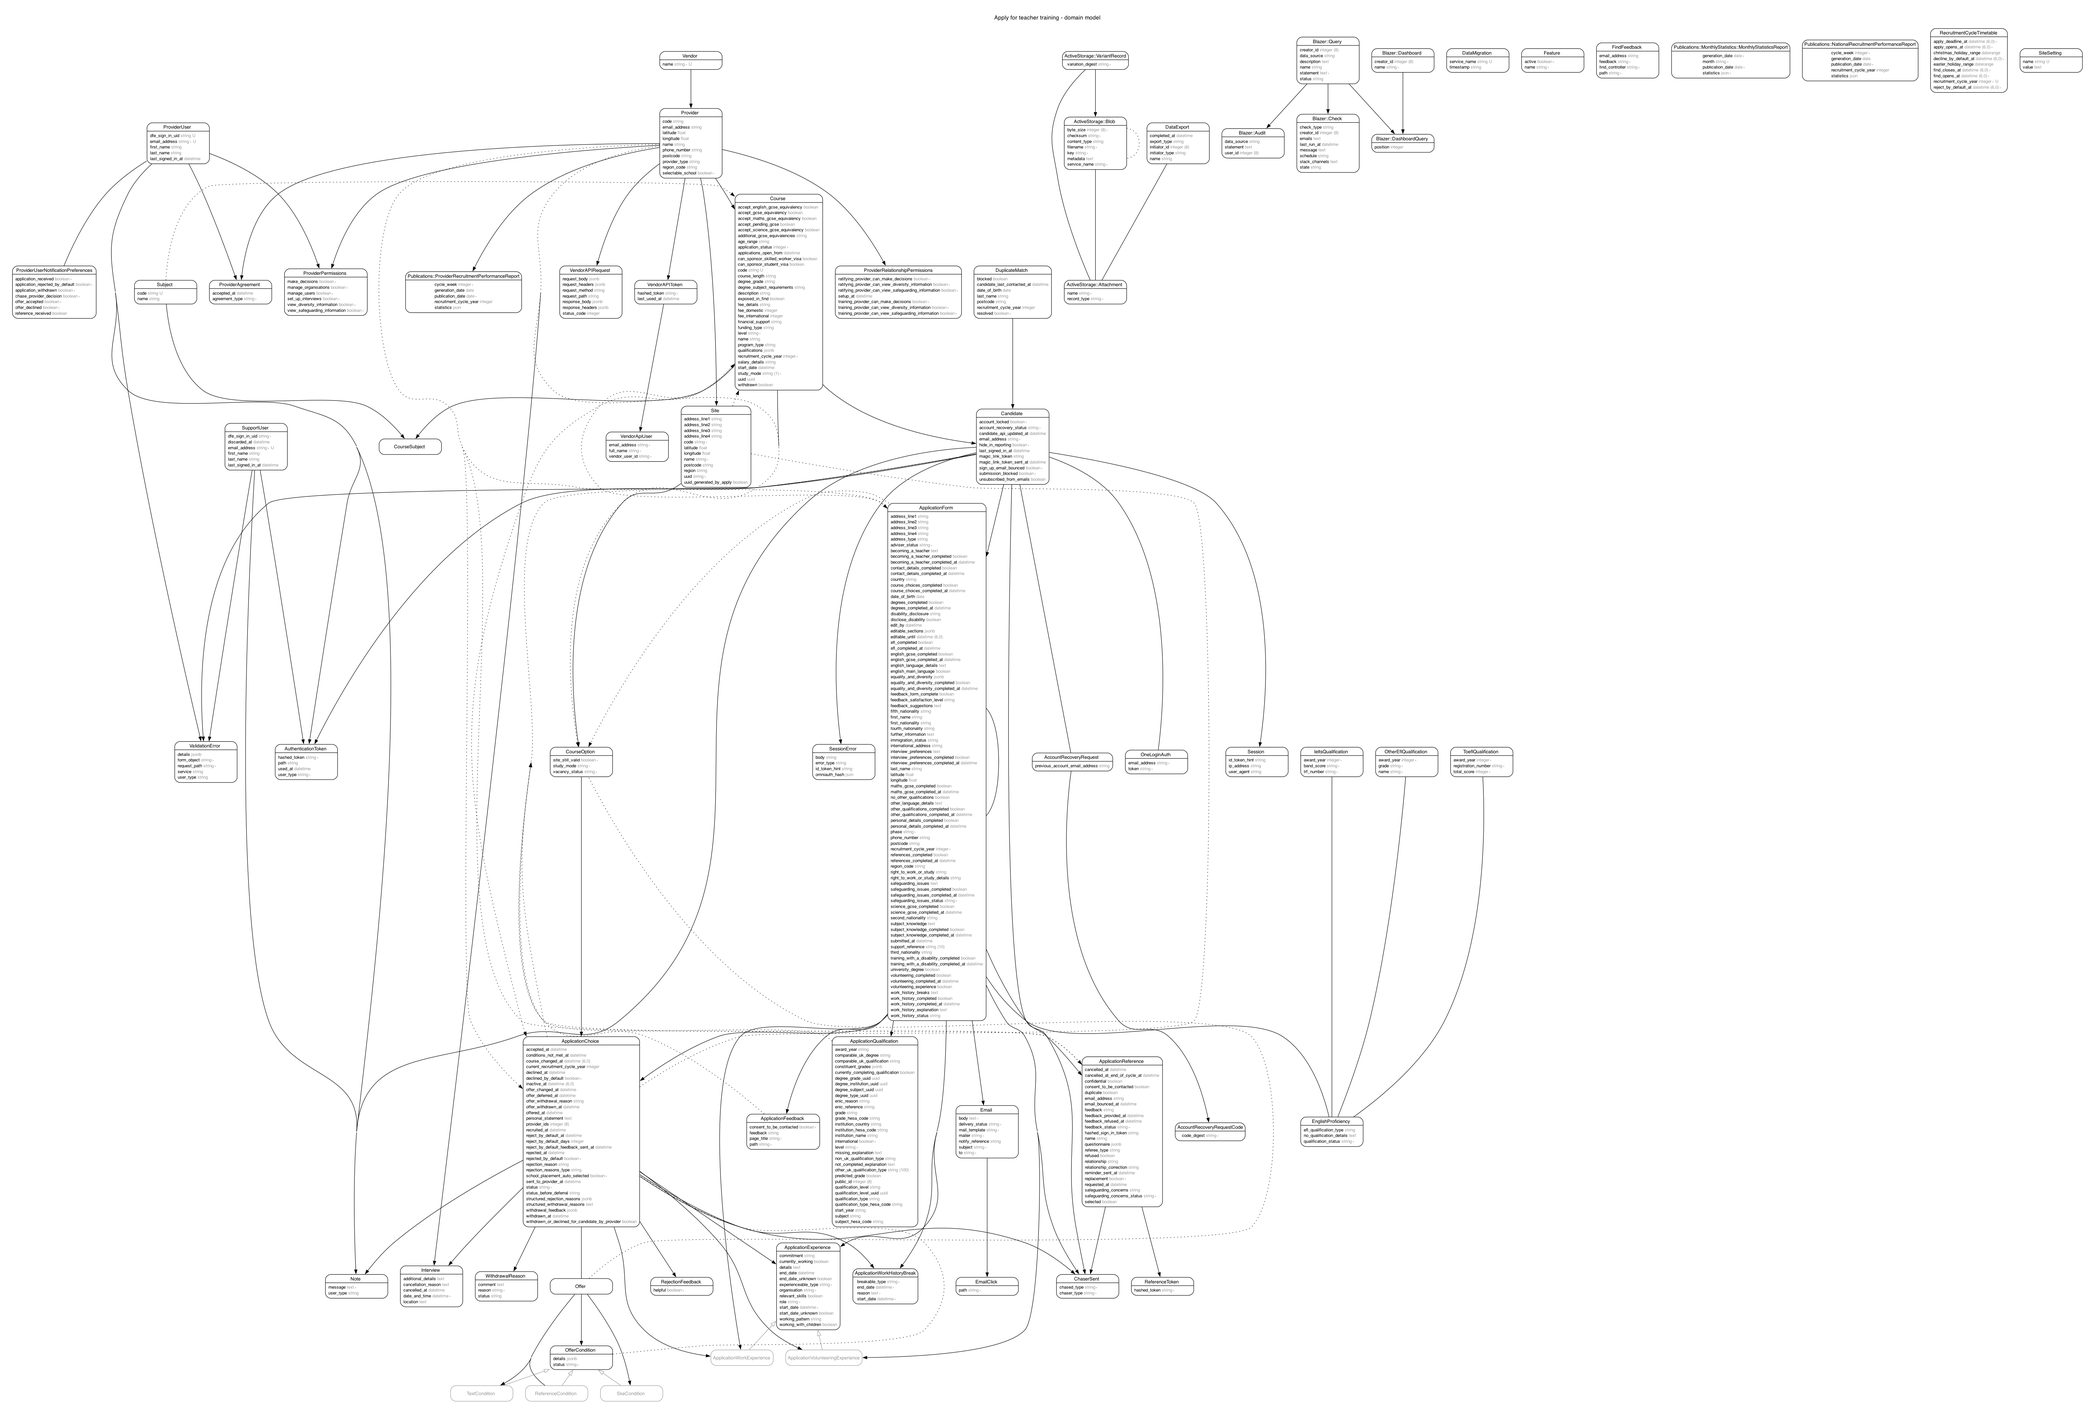
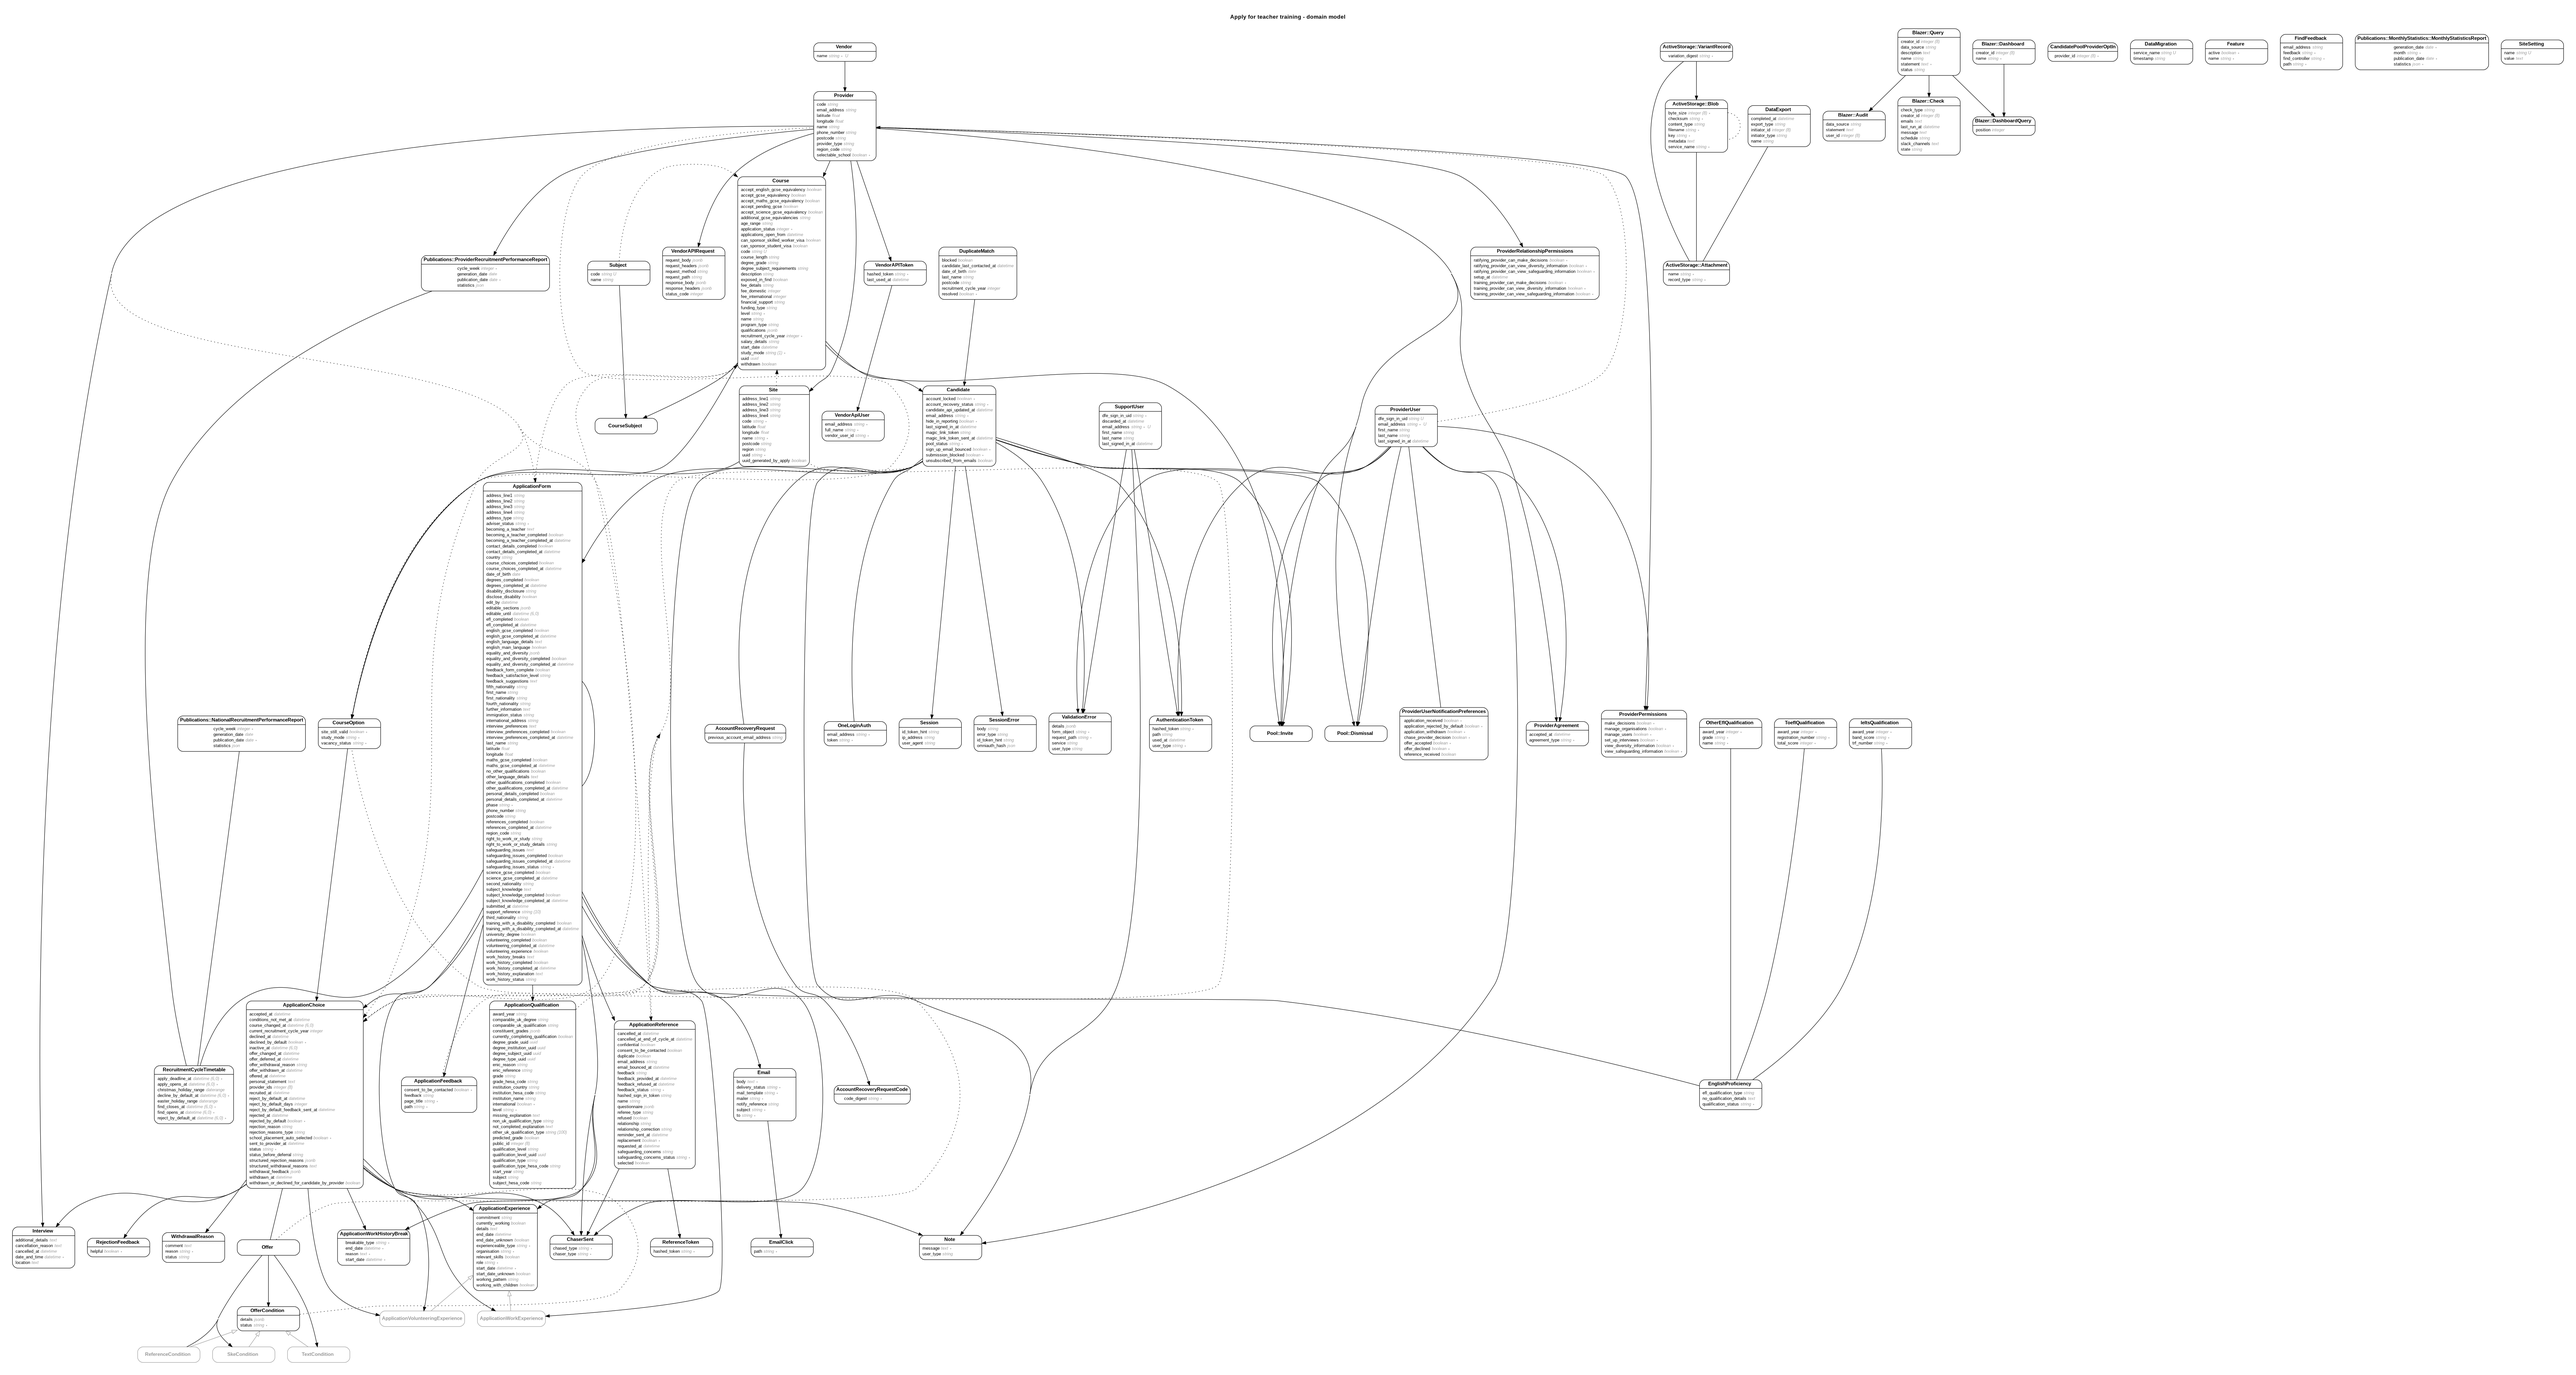
Candidate pool tables
To have a working candidate pool for providers we need to allow
providers to invite candidates to apply to courses.

We also need candidates to opt in. And a temporary list of providers
that opt in as well.

This commit adds all the migrations that we need for this feature

diff --git a/db/schema.rb b/db/schema.rb
@@ -10,7 +10,7 @@
 #
 # It's strongly recommended that you check this file into your version control system.
 
-ActiveRecord::Schema[8.0].define(version: 2025_02_03_095339) do
+ActiveRecord::Schema[8.0].define(version: 2025_02_17_144509) do
   create_sequence "qualifications_public_id_seq", start: 120000
 
   # These are extensions that must be enabled in order to support this database
@@ -384,6 +384,13 @@ ActiveRecord::Schema[8.0].define(version: 2025_02_03_095339) do
     t.index ["creator_id"], name: "index_blazer_queries_on_creator_id"
   end
 
+  create_table "candidate_pool_provider_opt_ins", force: :cascade do |t|
+    t.bigint "provider_id", null: false
+    t.datetime "created_at", null: false
+    t.datetime "updated_at", null: false
+    t.index ["provider_id"], name: "index_candidate_pool_provider_opt_ins_on_provider_id"
+  end
+
   create_table "candidates", force: :cascade do |t|
     t.string "email_address", null: false
     t.datetime "created_at", precision: nil, null: false
@@ -400,6 +407,7 @@ ActiveRecord::Schema[8.0].define(version: 2025_02_03_095339) do
     t.boolean "submission_blocked", default: false, null: false
     t.boolean "account_locked", default: false, null: false
     t.string "account_recovery_status", default: "not_started", null: false
+    t.string "pool_status", default: "not_set", null: false
     t.index ["account_locked"], name: "index_candidates_on_account_locked"
     t.index ["email_address"], name: "index_candidates_on_email_address", unique: true
     t.index ["fraud_match_id"], name: "index_candidates_on_fraud_match_id"
@@ -653,6 +661,30 @@ ActiveRecord::Schema[8.0].define(version: 2025_02_03_095339) do
     t.integer "award_year", null: false
     t.datetime "created_at", null: false
     t.datetime "updated_at", null: false
+  end
+
+  create_table "pool_dismissals", force: :cascade do |t|
+    t.bigint "candidate_id", null: false
+    t.bigint "provider_id", null: false
+    t.bigint "dismissed_by_id", null: false
+    t.datetime "created_at", null: false
+    t.datetime "updated_at", null: false
+    t.index ["candidate_id"], name: "index_pool_dismissals_on_candidate_id"
+    t.index ["dismissed_by_id"], name: "index_pool_dismissals_on_dismissed_by_id"
+    t.index ["provider_id"], name: "index_pool_dismissals_on_provider_id"
+  end
+
+  create_table "pool_invites", force: :cascade do |t|
+    t.bigint "candidate_id", null: false
+    t.bigint "provider_id", null: false
+    t.bigint "invited_by_id", null: false
+    t.bigint "course_id", null: false
+    t.datetime "created_at", null: false
+    t.datetime "updated_at", null: false
+    t.index ["candidate_id"], name: "index_pool_invites_on_candidate_id"
+    t.index ["course_id"], name: "index_pool_invites_on_course_id"
+    t.index ["invited_by_id"], name: "index_pool_invites_on_invited_by_id"
+    t.index ["provider_id"], name: "index_pool_invites_on_provider_id"
   end
 
   create_table "provider_agreements", force: :cascade do |t|
@@ -970,6 +1002,7 @@ ActiveRecord::Schema[8.0].define(version: 2025_02_03_095339) do
   add_foreign_key "application_forms", "application_forms", column: "previous_application_form_id"
   add_foreign_key "application_forms", "candidates", on_delete: :cascade
   add_foreign_key "application_qualifications", "application_forms", on_delete: :cascade
+  add_foreign_key "candidate_pool_provider_opt_ins", "providers", on_delete: :cascade
   add_foreign_key "candidates", "fraud_matches"
   add_foreign_key "course_options", "courses", on_delete: :cascade
   add_foreign_key "course_options", "sites", on_delete: :cascade
@@ -984,6 +1017,13 @@ ActiveRecord::Schema[8.0].define(version: 2025_02_03_095339) do
   add_foreign_key "offer_conditions", "offers", on_delete: :cascade
   add_foreign_key "offers", "application_choices", on_delete: :cascade
   add_foreign_key "one_login_auths", "candidates", on_delete: :cascade
+  add_foreign_key "pool_dismissals", "candidates", on_delete: :cascade
+  add_foreign_key "pool_dismissals", "provider_users", column: "dismissed_by_id", on_delete: :cascade
+  add_foreign_key "pool_dismissals", "providers", on_delete: :cascade
+  add_foreign_key "pool_invites", "candidates", on_delete: :cascade
+  add_foreign_key "pool_invites", "courses", on_delete: :cascade
+  add_foreign_key "pool_invites", "provider_users", column: "invited_by_id", on_delete: :cascade
+  add_foreign_key "pool_invites", "providers", on_delete: :cascade
   add_foreign_key "provider_agreements", "provider_users"
   add_foreign_key "provider_agreements", "providers"
   add_foreign_key "provider_recruitment_performance_reports", "providers"

diff --git a/db/migrate/20250122164839_create_pool_invites.rb b/db/migrate/20250122164839_create_pool_invites.rb
@@ -1,0 +1,12 @@
+class CreatePoolInvites < ActiveRecord::Migration[8.0]
+  def change
+    create_table :pool_invites do |t|
+      t.references :candidate, null: false, foreign_key: { on_delete: :cascade }
+      t.references :provider, null: false, foreign_key: { on_delete: :cascade }
+      t.references :invited_by, null: false, foreign_key: { to_table: :provider_users, on_delete: :cascade }
+      t.references :course, null: false, foreign_key: { on_delete: :cascade }
+
+      t.timestamps
+    end
+  end
+end

diff --git a/spec/factories/pool_dismissal.rb b/spec/factories/pool_dismissal.rb
@@ -1,0 +1,16 @@
+FactoryBot.define do
+  factory :pool_dismissal, class: 'Pool::Dismissal' do
+    candidate factory: %i[candidate]
+    provider factory: %i[provider]
+    dismissed_by factory: %i[provider_user]
+  end
+end
+
+FactoryBot.define do
+  factory :pool_invite, class: 'Pool::Invite' do
+    candidate factory: %i[candidate]
+    provider factory: %i[provider]
+    invited_by factory: %i[provider_user]
+    course factory: %i[course]
+  end
+end

diff --git a/db/migrate/20250122164721_create_pool_dismissals.rb b/db/migrate/20250122164721_create_pool_dismissals.rb
@@ -1,0 +1,11 @@
+class CreatePoolDismissals < ActiveRecord::Migration[8.0]
+  def change
+    create_table :pool_dismissals do |t|
+      t.references :candidate, null: false, foreign_key: { on_delete: :cascade }
+      t.references :provider, null: false, foreign_key: { on_delete: :cascade }
+      t.references :dismissed_by, null: false, foreign_key: { to_table: :provider_users, on_delete: :cascade }
+
+      t.timestamps
+    end
+  end
+end

diff --git a/app/models/candidate.rb b/app/models/candidate.rb
@@ -25,6 +25,9 @@ class Candidate < ApplicationRecord
   belongs_to :course_from_find, class_name: 'Course', optional: true
   belongs_to :duplicate_match, foreign_key: 'fraud_match_id', optional: true
 
+  has_many :pool_dismissals, dependent: :destroy, class_name: 'Pool::Dismissal'
+  has_many :pool_invites, dependent: :destroy, class_name: 'Pool::Invite'
+
   PUBLISHED_FIELDS = %w[email_address].freeze
 
   enum :account_recovery_status, {

diff --git a/spec/models/candidate_spec.rb b/spec/models/candidate_spec.rb
@@ -12,6 +12,8 @@ RSpec.describe Candidate do
     it { is_expected.to have_many(:session_errors) }
     it { is_expected.to have_one(:one_login_auth).dependent(:destroy) }
     it { is_expected.to have_one(:account_recovery_request).dependent(:destroy) }
+    it { is_expected.to have_one(:pool_dismissals).dependent(:destroy) }
+    it { is_expected.to have_one(:pool_invites).dependent(:destroy) }
   end
 
   describe 'delegations' do

diff --git a/spec/models/pool/invite_spec.rb b/spec/models/pool/invite_spec.rb
@@ -1,0 +1,10 @@
+require 'rails_helper'
+
+RSpec.describe Pool::Invite do
+  describe 'associations' do
+    it { is_expected.to belong_to(:candidate) }
+    it { is_expected.to belong_to(:provider) }
+    it { is_expected.to belong_to(:invited_by).class_name('ProviderUser') }
+    it { is_expected.to belong_to(:course) }
+  end
+end

diff --git a/spec/models/pool/dismissal_spec.rb b/spec/models/pool/dismissal_spec.rb
@@ -1,0 +1,9 @@
+require 'rails_helper'
+
+RSpec.describe Pool::Dismissal do
+  describe 'associations' do
+    it { is_expected.to belong_to(:candidate) }
+    it { is_expected.to belong_to(:provider) }
+    it { is_expected.to belong_to(:dismissed_by).class_name('ProviderUser') }
+  end
+end

diff --git a/db/migrate/20250217144509_create_candidate_pool_provider_opt_ins.rb b/db/migrate/20250217144509_create_candidate_pool_provider_opt_ins.rb
@@ -1,0 +1,8 @@
+class CreateCandidatePoolProviderOptIns < ActiveRecord::Migration[8.0]
+  def change
+    create_table :candidate_pool_provider_opt_ins do |t|
+      t.references :provider, null: false, foreign_key: { on_delete: :cascade }
+      t.timestamps
+    end
+  end
+end

diff --git a/db/migrate/20250122164506_add_pool_status_to_candidates.rb b/db/migrate/20250122164506_add_pool_status_to_candidates.rb
@@ -1,0 +1,5 @@
+class AddPoolStatusToCandidates < ActiveRecord::Migration[8.0]
+  def change
+    add_column :candidates, :pool_status, :string, null: false, default: 'not_set'
+  end
+end

diff --git a/app/models/pool/invite.rb b/app/models/pool/invite.rb
@@ -1,0 +1,6 @@
+class Pool::Invite < ApplicationRecord
+  belongs_to :candidate
+  belongs_to :provider
+  belongs_to :invited_by, class_name: 'ProviderUser'
+  belongs_to :course
+end

diff --git a/spec/models/candidate_pool_provider_opt_in_spec.rb b/spec/models/candidate_pool_provider_opt_in_spec.rb
@@ -1,0 +1,7 @@
+require 'rails_helper'
+
+RSpec.describe CandidatePoolProviderOptIn do
+  describe 'associations' do
+    it { is_expected.to belong_to(:provider) }
+  end
+end
